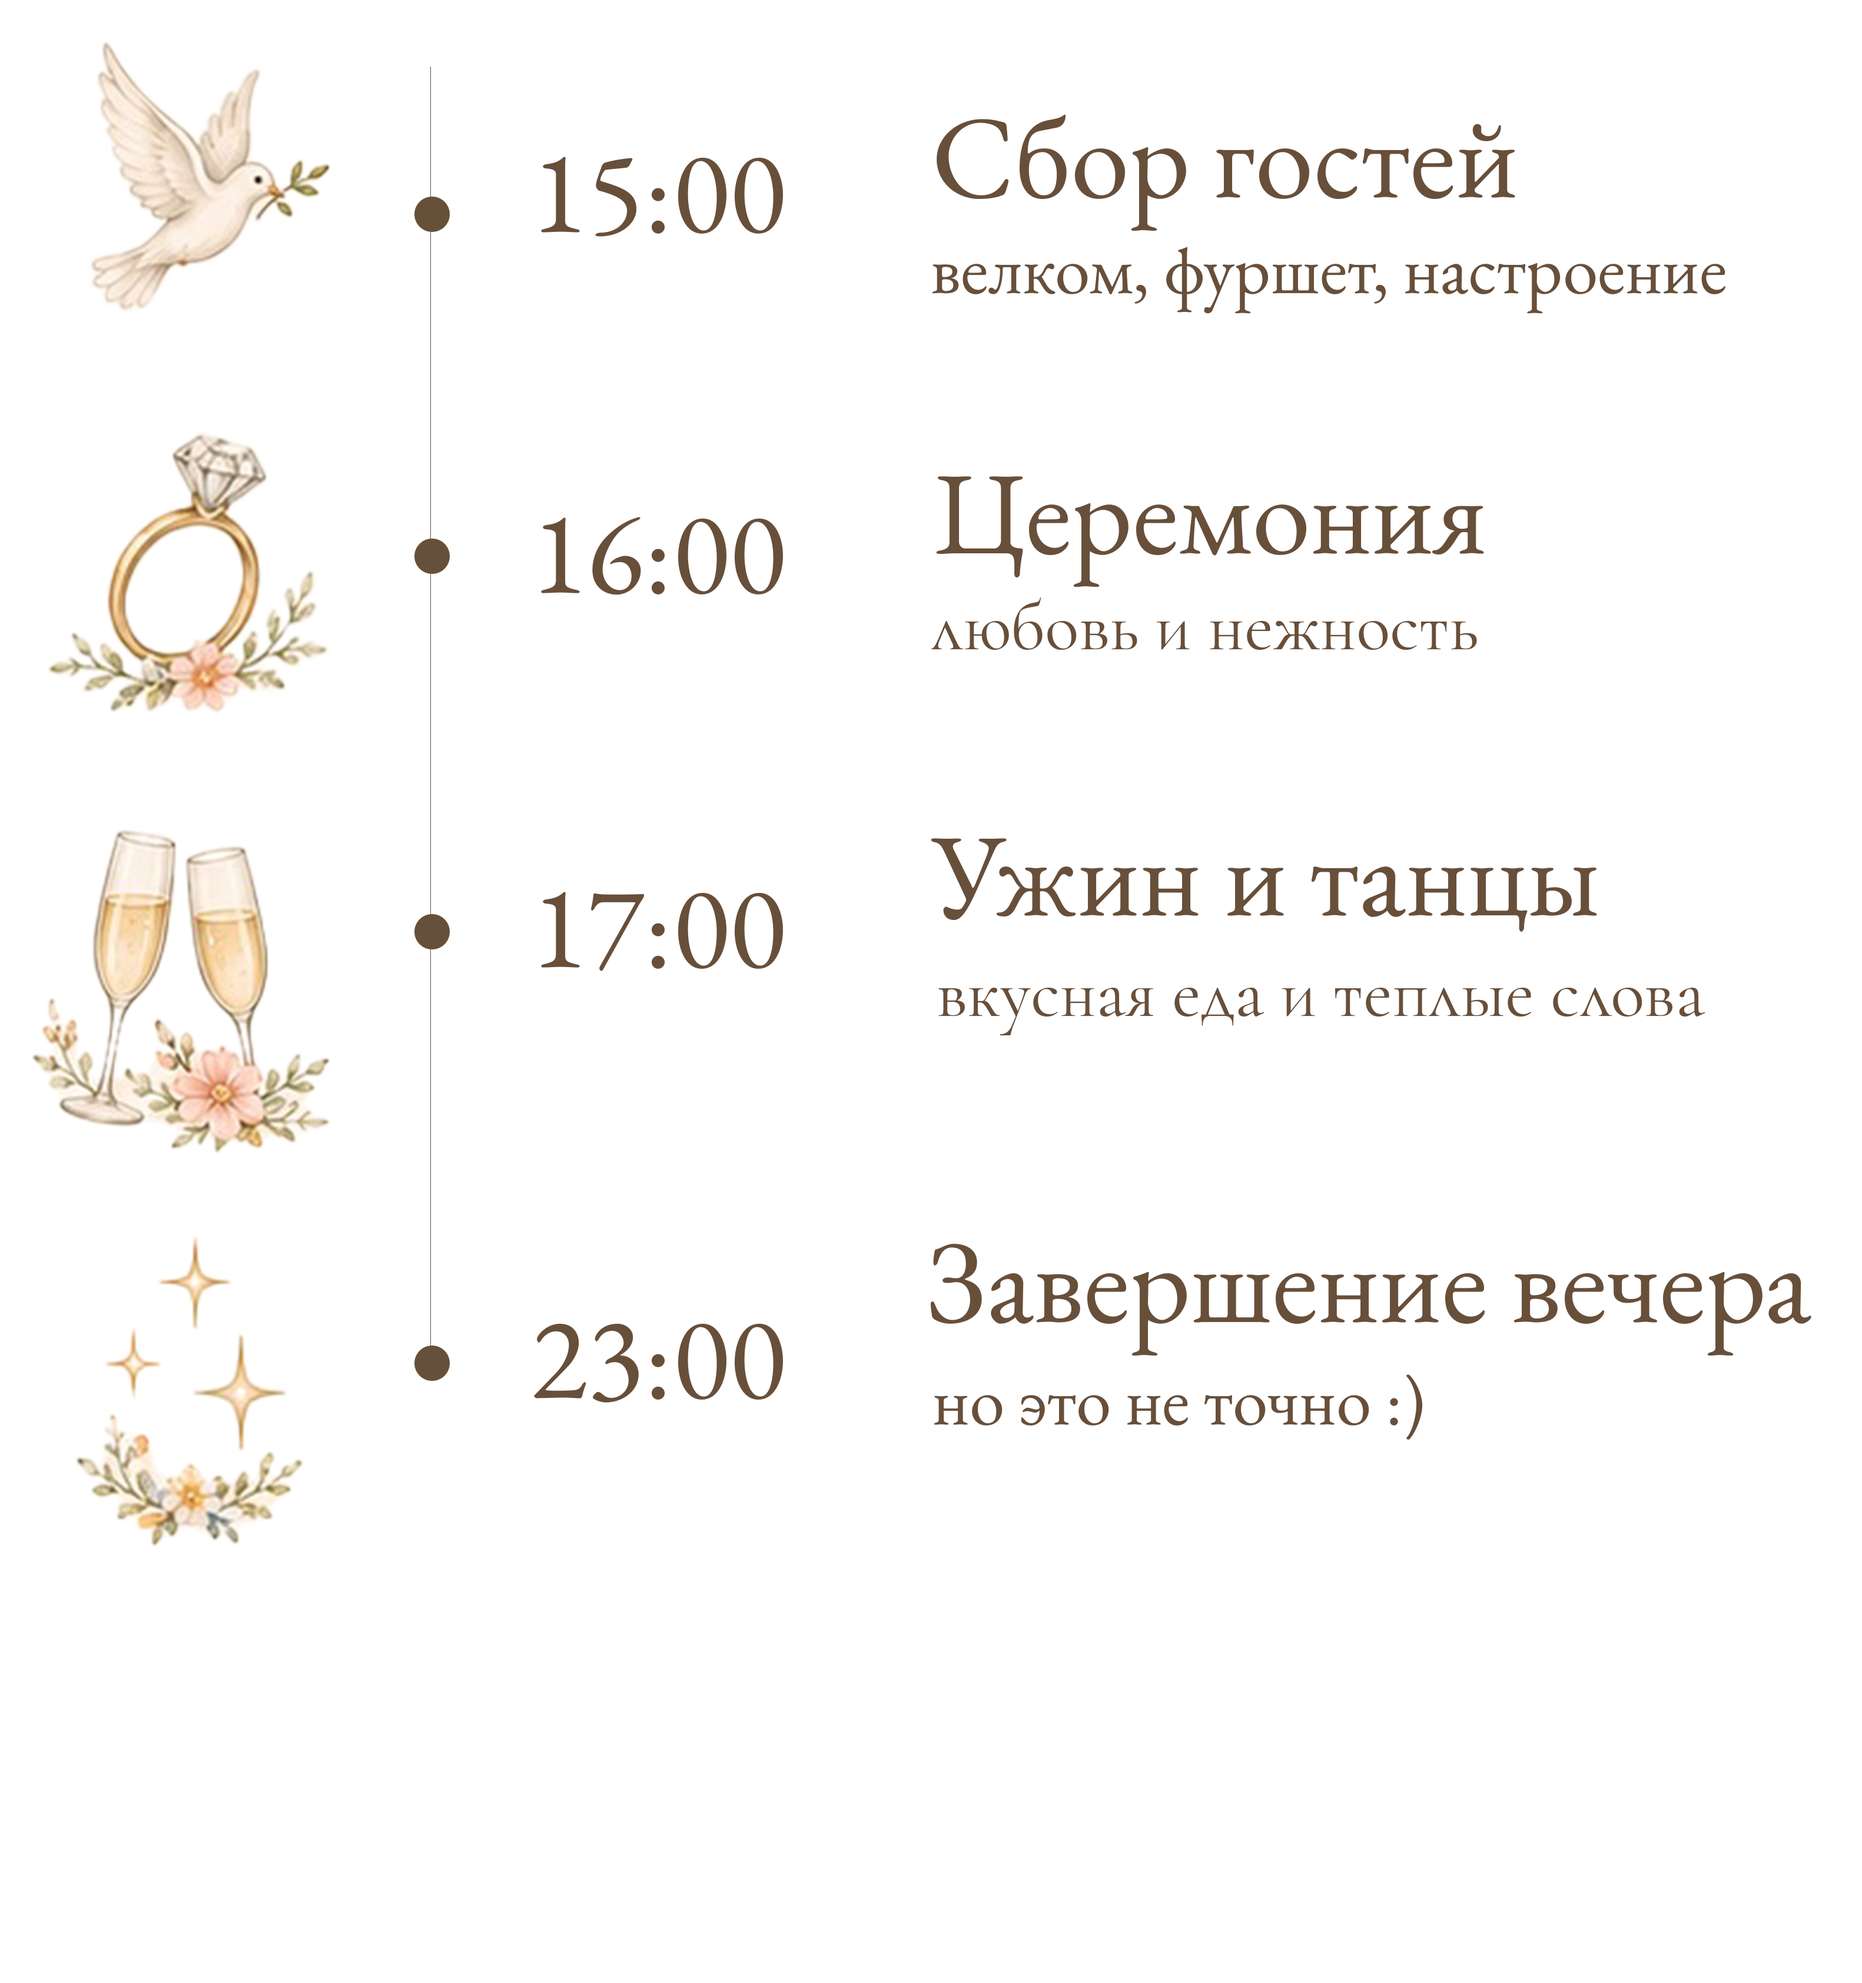
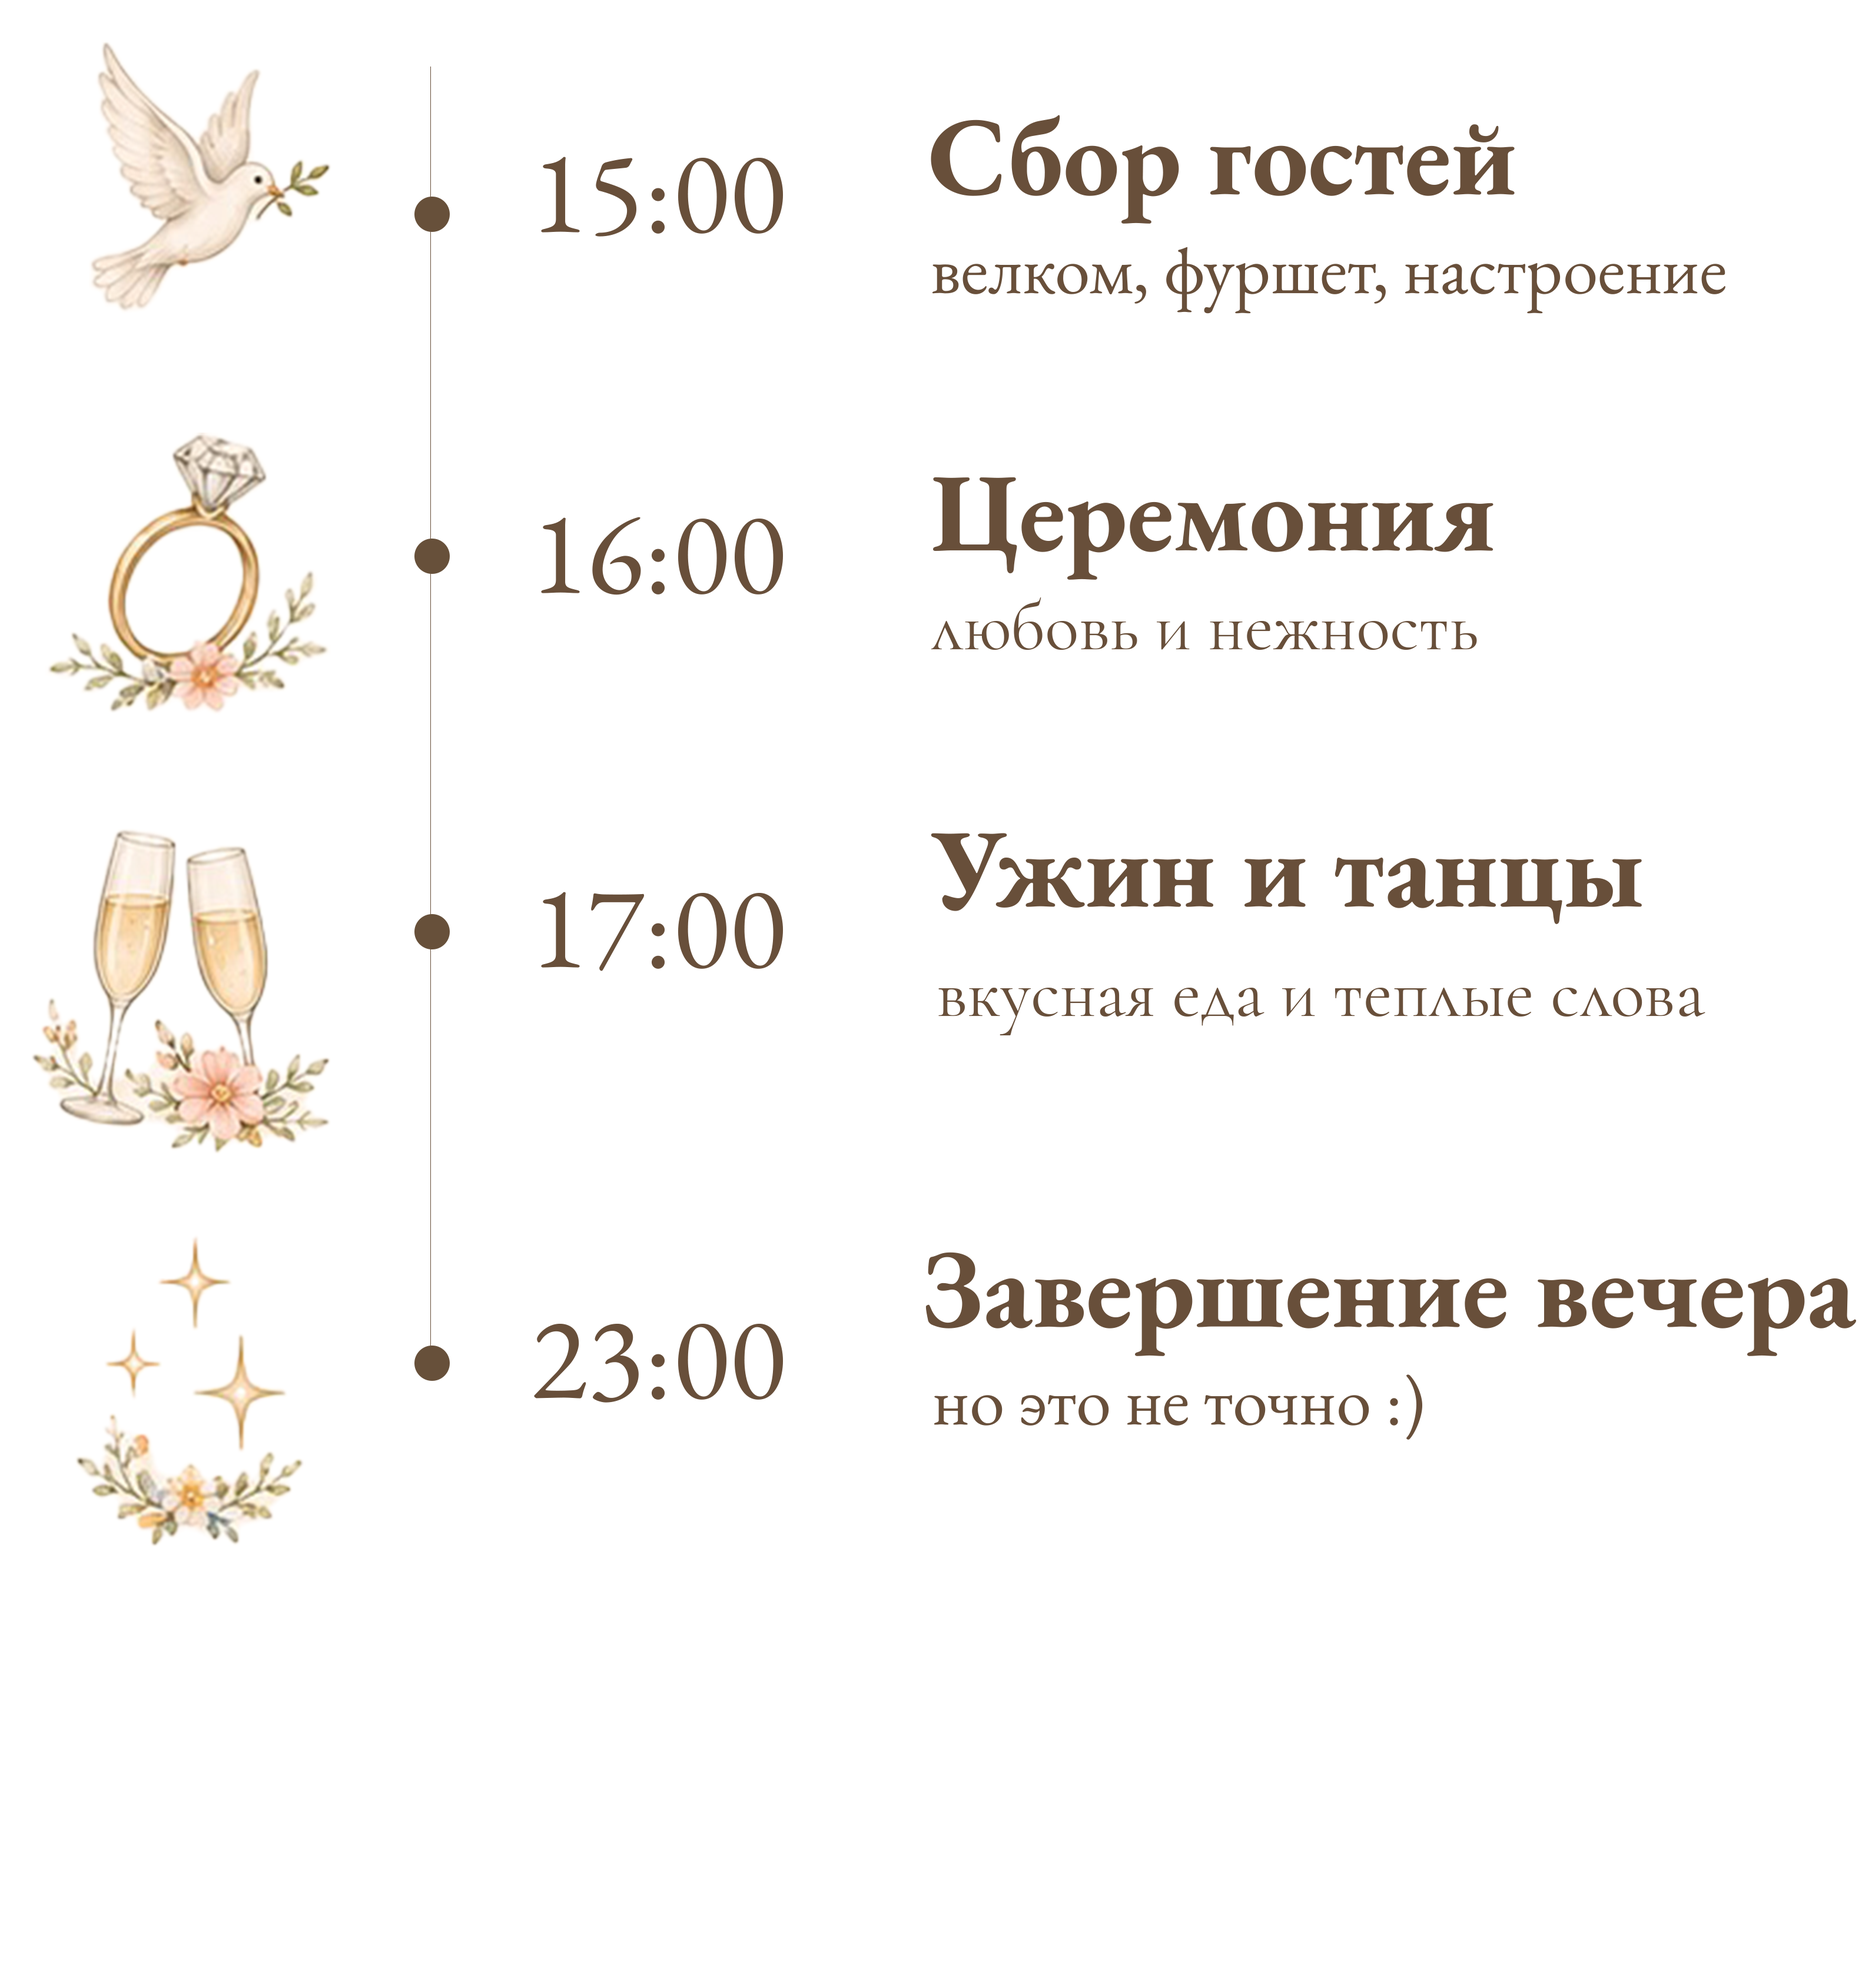
Add files via upload

diff --git a/css/style.css b/css/style.css
@@ -229,32 +229,17 @@ p {
 }
 
 .hero-side--left {
-  left: -16px;
+  left: -34px;
   top: 11%;
 }
 
 .hero-side--right {
-  right: -16px;
+  right: -34px;
   top: 8%;
 }
 
 .hero-seam {
-  position: absolute;
-  left: 0;
-  right: 0;
-  bottom: 0;
-  line-height: 0;
-}
-
-.hero-seam::before {
-  content: "";
-  position: absolute;
-  left: 0;
-  right: 0;
-  bottom: 0;
-  width: 100%;
-  height: 50%;
-  background: var(--bg);
+  position: relative;
 }
 
 .hero-tear {
@@ -274,7 +259,7 @@ p {
 .hero-date {
   position: absolute;
   width: 160px;
-  top: 0;
+  top: 30px;
   left: 50%;
   transform: translate(-50%, -50%);
 }
@@ -326,7 +311,7 @@ p {
   }
 
   .hero-date {
-    top: 126px;
+    top: -390px;
   }
 }
 
@@ -515,7 +500,7 @@ p {
 
 .corner-flower--top-left {
   top: -27px;
-  left: -2px;
+  left: -21px;
   width: 72px;
   transform: rotate(45deg);
 }
